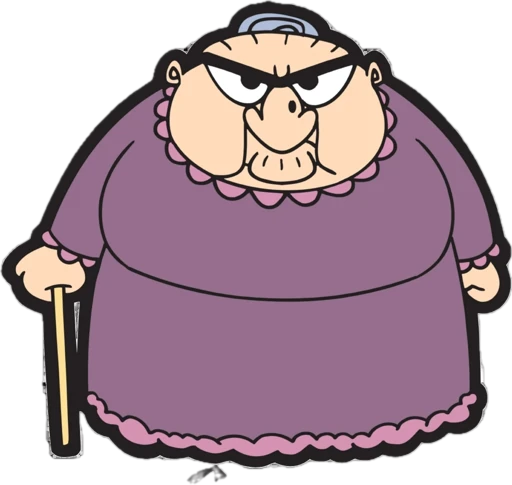
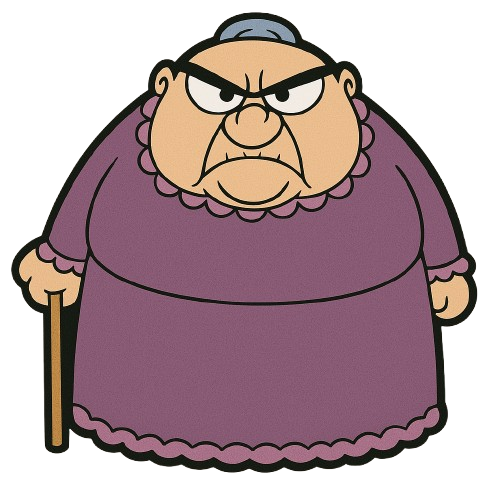
update grandma

diff --git a/lwjgl3/src/main/java/game/entities/Player.java b/lwjgl3/src/main/java/game/entities/Player.java
@@ -19,33 +19,24 @@ public class Player extends Entity implements PlayerMovable, Collidable {
     private boolean isSprinting;
     private Consumer<Collidable> collisionAction;
     private Rectangle bounds;
-    private Texture texture; 
     private Trash heldTrash;
     private Trash droppedTrash;
     private int health = 3;
-    private String texturePath; 
     
     private float width;
     private float height;
     private float animationTimer = 0;
-    private float bobHeight = 2f; // How much the character bobs up and down
+    private float bobHeight = 2f;
     private boolean isMoving = false;
-
     private Texture idleTexture;
     private Texture[] runningTexturesRight;
     private Texture[] runningTexturesLeft;
-    private static final float ANIMATION_FRAME_DURATION = 0.1f; // Time to show each frame
+    private static final float ANIMATION_FRAME_DURATION = 0.1f;
     private static final int NUM_RUNNING_FRAMES = 2;
     private boolean isFacingLeft = false;
     
     public Player(float x, float y, String texturePath, float speed) {
-        super(x, y, null, speed, 10); 
-        this.width = 36;
-        this.height = 36;
-        this.bounds = new Rectangle(x + width * 0.25f, y + height * 0.25f, width * 0.5f, height * 0.5f); 
-        this.texturePath = texturePath;
-        loadTextures();
-        this.texture = idleTexture;
+        this(x, y, texturePath, speed, 36, 36);
     }
     
     public Player(float x, float y, String texturePath, float speed, float width, float height) {
@@ -53,9 +44,7 @@ public class Player extends Entity implements PlayerMovable, Collidable {
         this.width = width;
         this.height = height;
         this.bounds = new Rectangle(x + width * 0.25f, y + height * 0.25f, width * 0.5f, height * 0.5f);
-        this.texturePath = texturePath;
         loadTextures();
-        this.texture = idleTexture;
     }
 
     private void loadTextures() {
@@ -119,18 +108,14 @@ public class Player extends Entity implements PlayerMovable, Collidable {
             animationTimer = 0;
         }
 
-        // Update held trash position if we have any
         updateHeldTrashPosition();
     }
     
     // Update held trash positioning
     private void updateHeldTrashPosition() {
         if (heldTrash != null) {
-            // Position trash relative to player
             float playerCenterX = getX() + width / 2;
             float playerCenterY = getY() + height / 2;
-            
-            // Position slightly above player's center
             heldTrash.setX(playerCenterX - 16);
             heldTrash.setY(playerCenterY + 10);
         }
@@ -147,7 +132,6 @@ public class Player extends Entity implements PlayerMovable, Collidable {
         } else if (dx > 0) {
             isFacingLeft = false;
         }
-        // Don't update facing direction if only moving vertically (dx == 0)
     }
 
     @Override
@@ -239,24 +223,7 @@ public class Player extends Entity implements PlayerMovable, Collidable {
      * @param newTexturePath Path to the new texture
      */
     public void changeTexture(String newTexturePath) {
-        // Dispose of the old textures to avoid memory leaks
-        if (idleTexture != null) {
-            idleTexture.dispose();
-        }
-        if (runningTexturesRight != null) {
-            for (Texture tex : runningTexturesRight) {
-                if (tex != null) {
-                    tex.dispose();
-                }
-            }
-        }
-        if (runningTexturesLeft != null) {
-            for (Texture tex : runningTexturesLeft) {
-                if (tex != null) {
-                    tex.dispose();
-                }
-            }
-        }
+        disposeTextures();
         
         // If it's a special texture (like car or slow), use it for all states
         if (newTexturePath.contains("car") || newTexturePath.contains("slow")) {
@@ -270,19 +237,14 @@ public class Player extends Entity implements PlayerMovable, Collidable {
         } else {
             // Otherwise load the normal animation textures
             idleTexture = new Texture(newTexturePath);
-            runningTexturesRight[0] = new Texture("running_1.png");
-            runningTexturesRight[1] = new Texture("running_2.png");
-            runningTexturesLeft[0] = new Texture("running_3.png");
-            runningTexturesLeft[1] = new Texture("running_4.png");
+            loadTextures();
         }
-        texture = idleTexture;
-        this.texturePath = newTexturePath;
     }
 
     @Override
     public void draw(SpriteBatch batch) {
         if (idleTexture != null && runningTexturesRight != null && runningTexturesLeft != null) {
-            // Apply slight rotation based on movement, more pronounced when sprinting
+            // Apply slight rotation based on movement
             float tilt = 0;
             if (isMoving) {
                 float tiltAmount = isSprinting ? 8f : 5f;
@@ -291,27 +253,35 @@ public class Player extends Entity implements PlayerMovable, Collidable {
                 // Calculate which frame of the running animation to show
                 int frameIndex = (int)((animationTimer / ANIMATION_FRAME_DURATION) % NUM_RUNNING_FRAMES);
                 
-                // Select the appropriate texture array based on direction
-                texture = isFacingLeft ? runningTexturesLeft[frameIndex] : runningTexturesRight[frameIndex];
+                // Draw the appropriate texture based on direction
+                batch.draw(
+                    isFacingLeft ? runningTexturesLeft[frameIndex] : runningTexturesRight[frameIndex],
+                    getX(), getY(),
+                    width/2, height/2,
+                    width, height,
+                    1, 1,
+                    tilt,
+                    0, 0,
+                    idleTexture.getWidth(), idleTexture.getHeight(),
+                    false, false
+                );
             } else {
-                texture = idleTexture;
+                batch.draw(
+                    idleTexture,
+                    getX(), getY(),
+                    width/2, height/2,
+                    width, height,
+                    1, 1,
+                    tilt,
+                    0, 0,
+                    idleTexture.getWidth(), idleTexture.getHeight(),
+                    false, false
+                );
             }
-            
-            // Draw with rotation around center
-            batch.draw(texture, 
-                getX(), getY(),
-                width/2, height/2,
-                width, height,
-                1, 1,
-                tilt,
-                0, 0,
-                texture.getWidth(), texture.getHeight(),
-                false, false);
         }
     }
 
-    @Override 
-    public void dispose() {
+    private void disposeTextures() {
         if (idleTexture != null) {
             idleTexture.dispose();
         }
@@ -329,5 +299,10 @@ public class Player extends Entity implements PlayerMovable, Collidable {
                 }
             }
         }
+    }
+
+    @Override 
+    public void dispose() {
+        disposeTextures();
     }
 }

diff --git a/lwjgl3/src/main/java/io/github/some_example_name/lwjgl3/GameMechanicsManager.java b/lwjgl3/src/main/java/io/github/some_example_name/lwjgl3/GameMechanicsManager.java
@@ -42,8 +42,8 @@ public class GameMechanicsManager {
     private float levelTimer;
     private float powerUpSpawnTimer;
     private Map<Enemy, Float> stunnedEnemies;
-    private int bananaCharges; // New field for banana charges
-    private float bananaCooldown = 0; // Add cooldown timer for banana throws
+    private int bananaCharges; 
+    private float bananaCooldown = 0; 
 
     private EntityManager entityManager;
     private CollisionManager collisionManager;
@@ -423,6 +423,7 @@ public class GameMechanicsManager {
     private void handleBananaPeelCollision(BananaPeel peel, Enemy enemy) {
         // Stun the enemy
         stunnedEnemies.put(enemy, peel.getStunDuration());
+        enemy.setTexture("grandmother_happy.png");
         enemy.setStunned(true);
         enemy.setSpeed(0);
         
@@ -507,6 +508,7 @@ public class GameMechanicsManager {
             
             if (remainingStunTime <= 0) {
                 enemy.setStunned(false);
+                enemy.setTexture("grandmother.png");
                 enemy.setSpeed(GameState.getEnemySpeed());
                 it.remove();
             } else {

diff --git a/lwjgl3/src/main/java/game/entities/Enemy.java b/lwjgl3/src/main/java/game/entities/Enemy.java
@@ -208,4 +208,11 @@ public class Enemy extends Entity implements AIMovable, Collidable {
             texture.dispose();
         }
     }
+
+    public void setTexture(String string) {
+        if (texture != null) {
+            texture.dispose();
+        }
+        this.texture = new Texture(string);
+    }
 }
